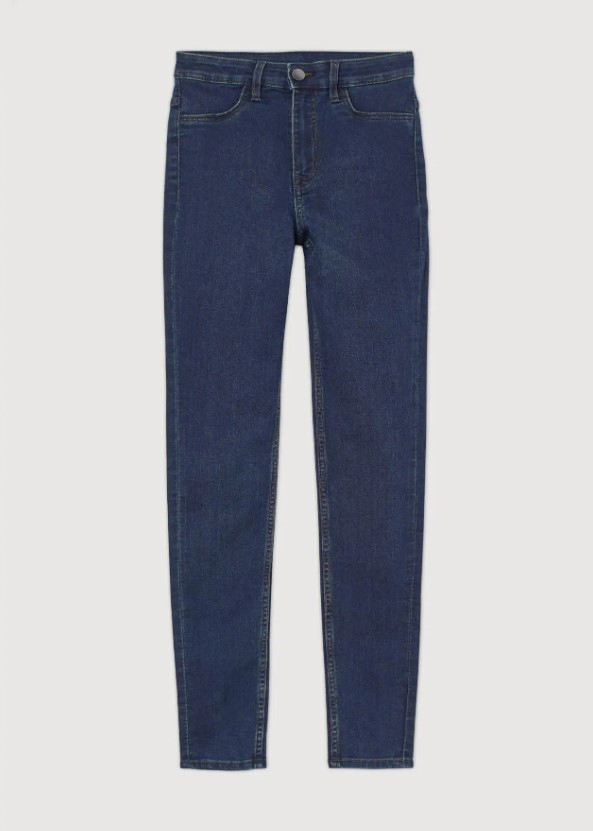
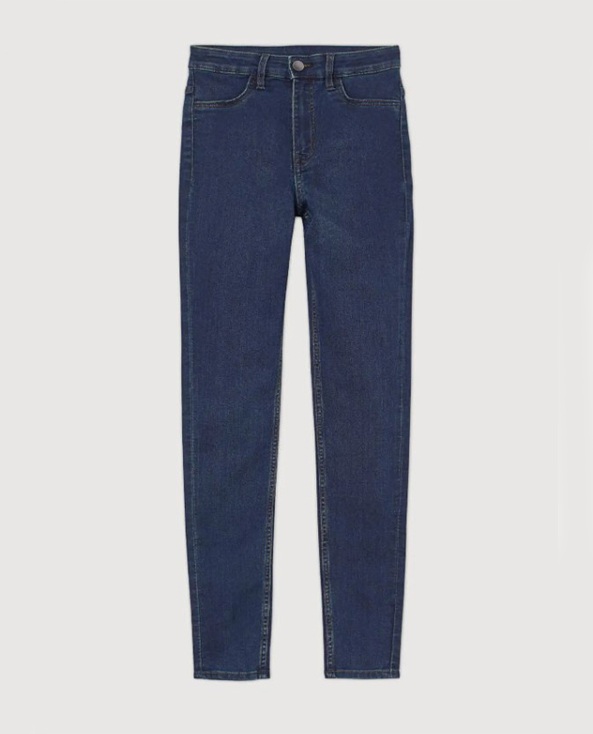
Primera Entrega Coder

diff --git a/src/components/Principal.js b/src/components/Principal.js
@@ -3,21 +3,21 @@ import imgprincipal from '../assets/img/principal.jpg';
 
 const Principal = () => {
   return (
-    
-    <div className='flex flex-row px-12'>
-      <img className = "object-cover h-180 w-96 rounded-3xl hover:scale-105 duration-700 ease-in-out" src={imgprincipal} alt="logo"/>
+
+    <div className='flex flex-row px-12 pb-10'>
+      <img className="object-cover  w-2/5 rounded-3xl hover:scale-105 duration-700 ease-in-out" src={imgprincipal} alt="logo" />
       <div className='flex-1 p-40'>
-      <h2 className='text-4xl font-bold py-5'>Feel the Pink Blue Power</h2>
-      <p className='text-3xl py-6 '>BluePinkPanther is a contemporary fashion brand influenced by the courage of modern youth culture.</p>
-      
-      <div className="flex-none py-20 text-3xl">
-    <ul className="menu menu-horizontal p-0 font-bold">
-      <li className><a>Top</a></li>
-      <li className><a>Bottom</a></li>
-      <li className><a>Combos</a></li>
-    </ul>
-    </div>
-    </div>
+        <h2 className='text-4xl font-bold hover:text-pink-600 py-5 hover:scale-105 duration-700 ease-in-out'>Feel the Pink Blue Power</h2>
+        <p className='text-3xl py-6 '>BluePinkPanther is a contemporary fashion brand influenced by the courage of modern youth culture.</p>
+
+        <div className="flex-none py-20 text-3xl">
+          <ul className="menu menu-horizontal p-0 font-bold ">
+            <li className='hover:text-primary hover:scale-105 duration-100 ease-in-out'><a>Top</a></li>
+            <li className='hover:text-primary hover:scale-105 duration-100 ease-in-out'><a>Bottom</a></li>
+            <li className='hover:text-primary hover:scale-105 duration-100 ease-in-out'><a>Combos</a></li>
+          </ul>
+        </div>
+      </div>
     </div>
   )
 }

diff --git a/src/components/ItemListContainer.js b/src/components/ItemListContainer.js
@@ -1,28 +1,36 @@
-import React, {useEffect, useState} from 'react'
+import React, { useEffect, useState } from 'react'
 import productsDB from '../data/products'
 import ItemList from './ItemList';
+import { useParams } from 'react-router-dom';
 
-
-function getProducts() {
-    return new Promise( (resolve, reject) => {
-        setTimeout (() => {
-            resolve(productsDB);
-        }, 2000);
+function getProducts(categoryid) {
+    return new Promise((resolve, reject) => {
+        setTimeout(() => {
+            if (categoryid !== undefined) {
+                const arrayFiltered = productsDB.filter((product) => {
+                    return product.category === categoryid;
+                })
+                resolve(arrayFiltered);
+            }
+            else {
+                resolve(productsDB);
+            }
+        }, 100);
     });
 }
 
-function ItemListContainer({titulo}) {
+function ItemListContainer() {
     const [products, setProducts] = useState([]);
+    const { categoryid } = useParams();
 
     useEffect(() => {
-        getProducts().then (respuestaPromise => {
+        getProducts(categoryid).then(respuestaPromise => {
             setProducts(respuestaPromise);
         });
-    }, []);
+    }, [categoryid]);
 
     return (
-    <><h1>{titulo}</h1>
-    <ItemList products={products} /></>
+        <div className=''><ItemList products={products} /></div>
     )
 }
 

diff --git a/src/components/ItemDetailContainer.js b/src/components/ItemDetailContainer.js
@@ -1,32 +1,32 @@
-import React, {useEffect, useState} from 'react'
+import React, { useEffect, useState } from 'react'
+import { useParams } from 'react-router-dom';
 import productsDB from '../data/products'
 import ItemDetail from './ItemDetail';
 
 
 function getProduct(id) {
-    return new Promise( (resolve, reject) => {
-        setTimeout (() => {
-            const productFound = productsDB.find ( (product) => {
-                return id === product.id
+    return new Promise((resolve, reject) => {
+        setTimeout(() => {
+            const productFound = productsDB.find((product) => {
+                return parseInt(id) === product.id;
             })
-            resolve (productFound);
-        }, 2000);
+            resolve(productFound);
+        }, 100);
     });
 }
 
-function ItemDetailContainer( {id} ) {
+function ItemDetailContainer() {
     const [product, setProduct] = useState([]);
-
+    const { itemid } = useParams();
     useEffect(() => {
-        getProduct(id).then (respuestaPromise => {
+        getProduct(itemid).then(respuestaPromise => {
             setProduct(respuestaPromise);
         });
-    }, []);
+    }, [itemid]);
 
     return (
         <section className='text-gray-600 body-font'>
-            <ItemDetail product={product}/>
-            
+            <ItemDetail product={product} />
         </section>
     )
 }

diff --git a/src/data/products.js b/src/data/products.js
@@ -14,7 +14,7 @@ const products = [
     stock: 12,
     price: 14.99,
     category:"top",
-    imgURL: "https://i.ibb.co/0MpDbfp/remera-01.jpg",
+    imgURL: "https://i.ibb.co/xSjvQbk/remera-01.jpg",
   }, {
     id: 3,
     title: "Long-sleeved Cotton Top",
@@ -22,7 +22,7 @@ const products = [
     stock: 13,
     price: 22.99,
     category:"top",
-    imgURL: "https://i.ibb.co/bdCSWLh/longsleeve-01.jpg",
+    imgURL: "https://i.ibb.co/ZmrbyZ8/longsleeve-01.jpg",
   }, {
     id: 4,
     title: "Regular Fit Sweatshort",
@@ -30,7 +30,7 @@ const products = [
     stock: 13,
     price: 9.99,
     category:"bottom",
-    imgURL: "https://i.ibb.co/rQ3kJM2/short-04.jpg",
+    imgURL: "https://i.ibb.co/XZ4HTxw/short-04.jpg",
   }, {
     id: 5,
     title: "Straight High Jeans",
@@ -38,7 +38,7 @@ const products = [
     stock: 23,
     price: 18.99,
     category:"bottom",
-    imgURL: "<https://i.ibb.co/gRf4q7t/jeans-01.jpg",
+    imgURL: "https://i.ibb.co/fpkzvtv/jeans-01.jpg",
   }, {
     id: 6,
     title: "High Waist Joggers",
@@ -46,7 +46,7 @@ const products = [
     stock: 13,
     price: 13.99,
     category:"bottom",
-    imgURL: "https://i.ibb.co/SBs49XL/joggins-01.jpg",
+    imgURL: "https://i.ibb.co/x383mgh/joggins-01.jpg",
   }, ]
 
   export default products;

diff --git a/src/components/Item.js b/src/components/Item.js
@@ -1,19 +1,34 @@
-import React from 'react'
-import products from '../data/products'
+import React from 'react';
+import {Link} from 'react-router-dom';
 
-function Item( {product} ) {
+function Item({ product }) {
   return (
-    <div>
-      <h1>{product.title}</h1>
-      <h2>{product.color}</h2>
-      <h3>{product.size}</h3>
-      <h4>{product.stock}</h4>
-      <h2>${product.price}</h2>
-      <h2>{product.imgURL}</h2>
-      <hr/>
-      <br/>
+
+    <div className=' w-1/3 px-3 pt-3 pb-3 text-xl hover:scale-105 duration-700 ease-in-out'>
+      <div className='shadow-xl bg-white p-2 rounded-2xl'>
+        <div>
+          <img
+            alt={product.title}
+            className="rounded-2xl object-center"
+            src={product.imgURL}
+          />
+        </div>
+
+        <h3 className='h-50 text-grey-800 font-bold title-font pt-3'>
+          {product.title}
+        </h3>
+        <h2 className='font text-2x1 pb-3 text-gray-900'>
+          USD {product.price}
+        </h2>
+        <Link to={`/product/${product.id}`}>
+          <h2 className='font text-2x1 pb-3 text-gray-500'>
+            See Product
+          </h2>
+        </Link>
+      </div>
     </div>
-  )
-}
+
+  );
+};
 
 export default Item

diff --git a/src/components/DaisyNavBar.js b/src/components/DaisyNavBar.js
@@ -11,7 +11,7 @@ const DaisyNavBar = () => {
       <div className="flex-none">
         <ul className="menu menu-horizontal p-0  ">
           <li className='text-secondary ' tabindex="0">
-            <Link>
+            <Link to="/">
               About
               <svg className="fill-current" xmlns="http://www.w3.org/2000/svg" width="20" height="20" viewBox="0 0 24 24"><path d="M7.41,8.58L12,13.17L16.59,8.58L18,10L12,16L6,10L7.41,8.58Z" /></svg>
             </Link>
@@ -24,7 +24,7 @@ const DaisyNavBar = () => {
             </ul>
           </li>
           <li className='text-primary'><Link to="/category/top">Top</Link></li>
-          <li className='text-primary'><Link to="/categpry/bottom">Bottom</Link></li>
+          <li className='text-primary'><Link to="/category/bottom">Bottom</Link></li>
           <li className='text-primary'><Link to="/category/accesories">Accessories</Link></li>
           <li className='text-primary'><Link to="/category/combos">Combos</Link></li>
         </ul>

diff --git a/src/App.js b/src/App.js
@@ -12,12 +12,17 @@ function App() {
 
       <BrowserRouter>
         <DaisyNavBar />
+        <Principal />
         <Routes>
           <Route path="/" element={<ItemListContainer titulo="Hola desde React Router" />} />
           <Route path="/category/:categoryid" element={<ItemListContainer titulo="Categoria de Productos" />} />
-          <Route path="/product/:itemid" element={<ItemDetailContainer id={1} />} />
+          <Route path="/product/:itemid" element={<ItemDetailContainer />} />
         </Routes>
       </BrowserRouter>
+
+
+
+
 
     </div>
   );

diff --git a/src/components/ItemList.js b/src/components/ItemList.js
@@ -3,13 +3,13 @@ import Item from './Item'
 
 function ItemList ( {products} )  {
   return (
-    <>
+    <div className='flex flex-row flex-wrap'>
     { products.map (thisproduct => {
       return (
         <Item product = {thisproduct} key={thisproduct.id} />
       )
     })}
-    </>
+    </div>
   )
 }
 
